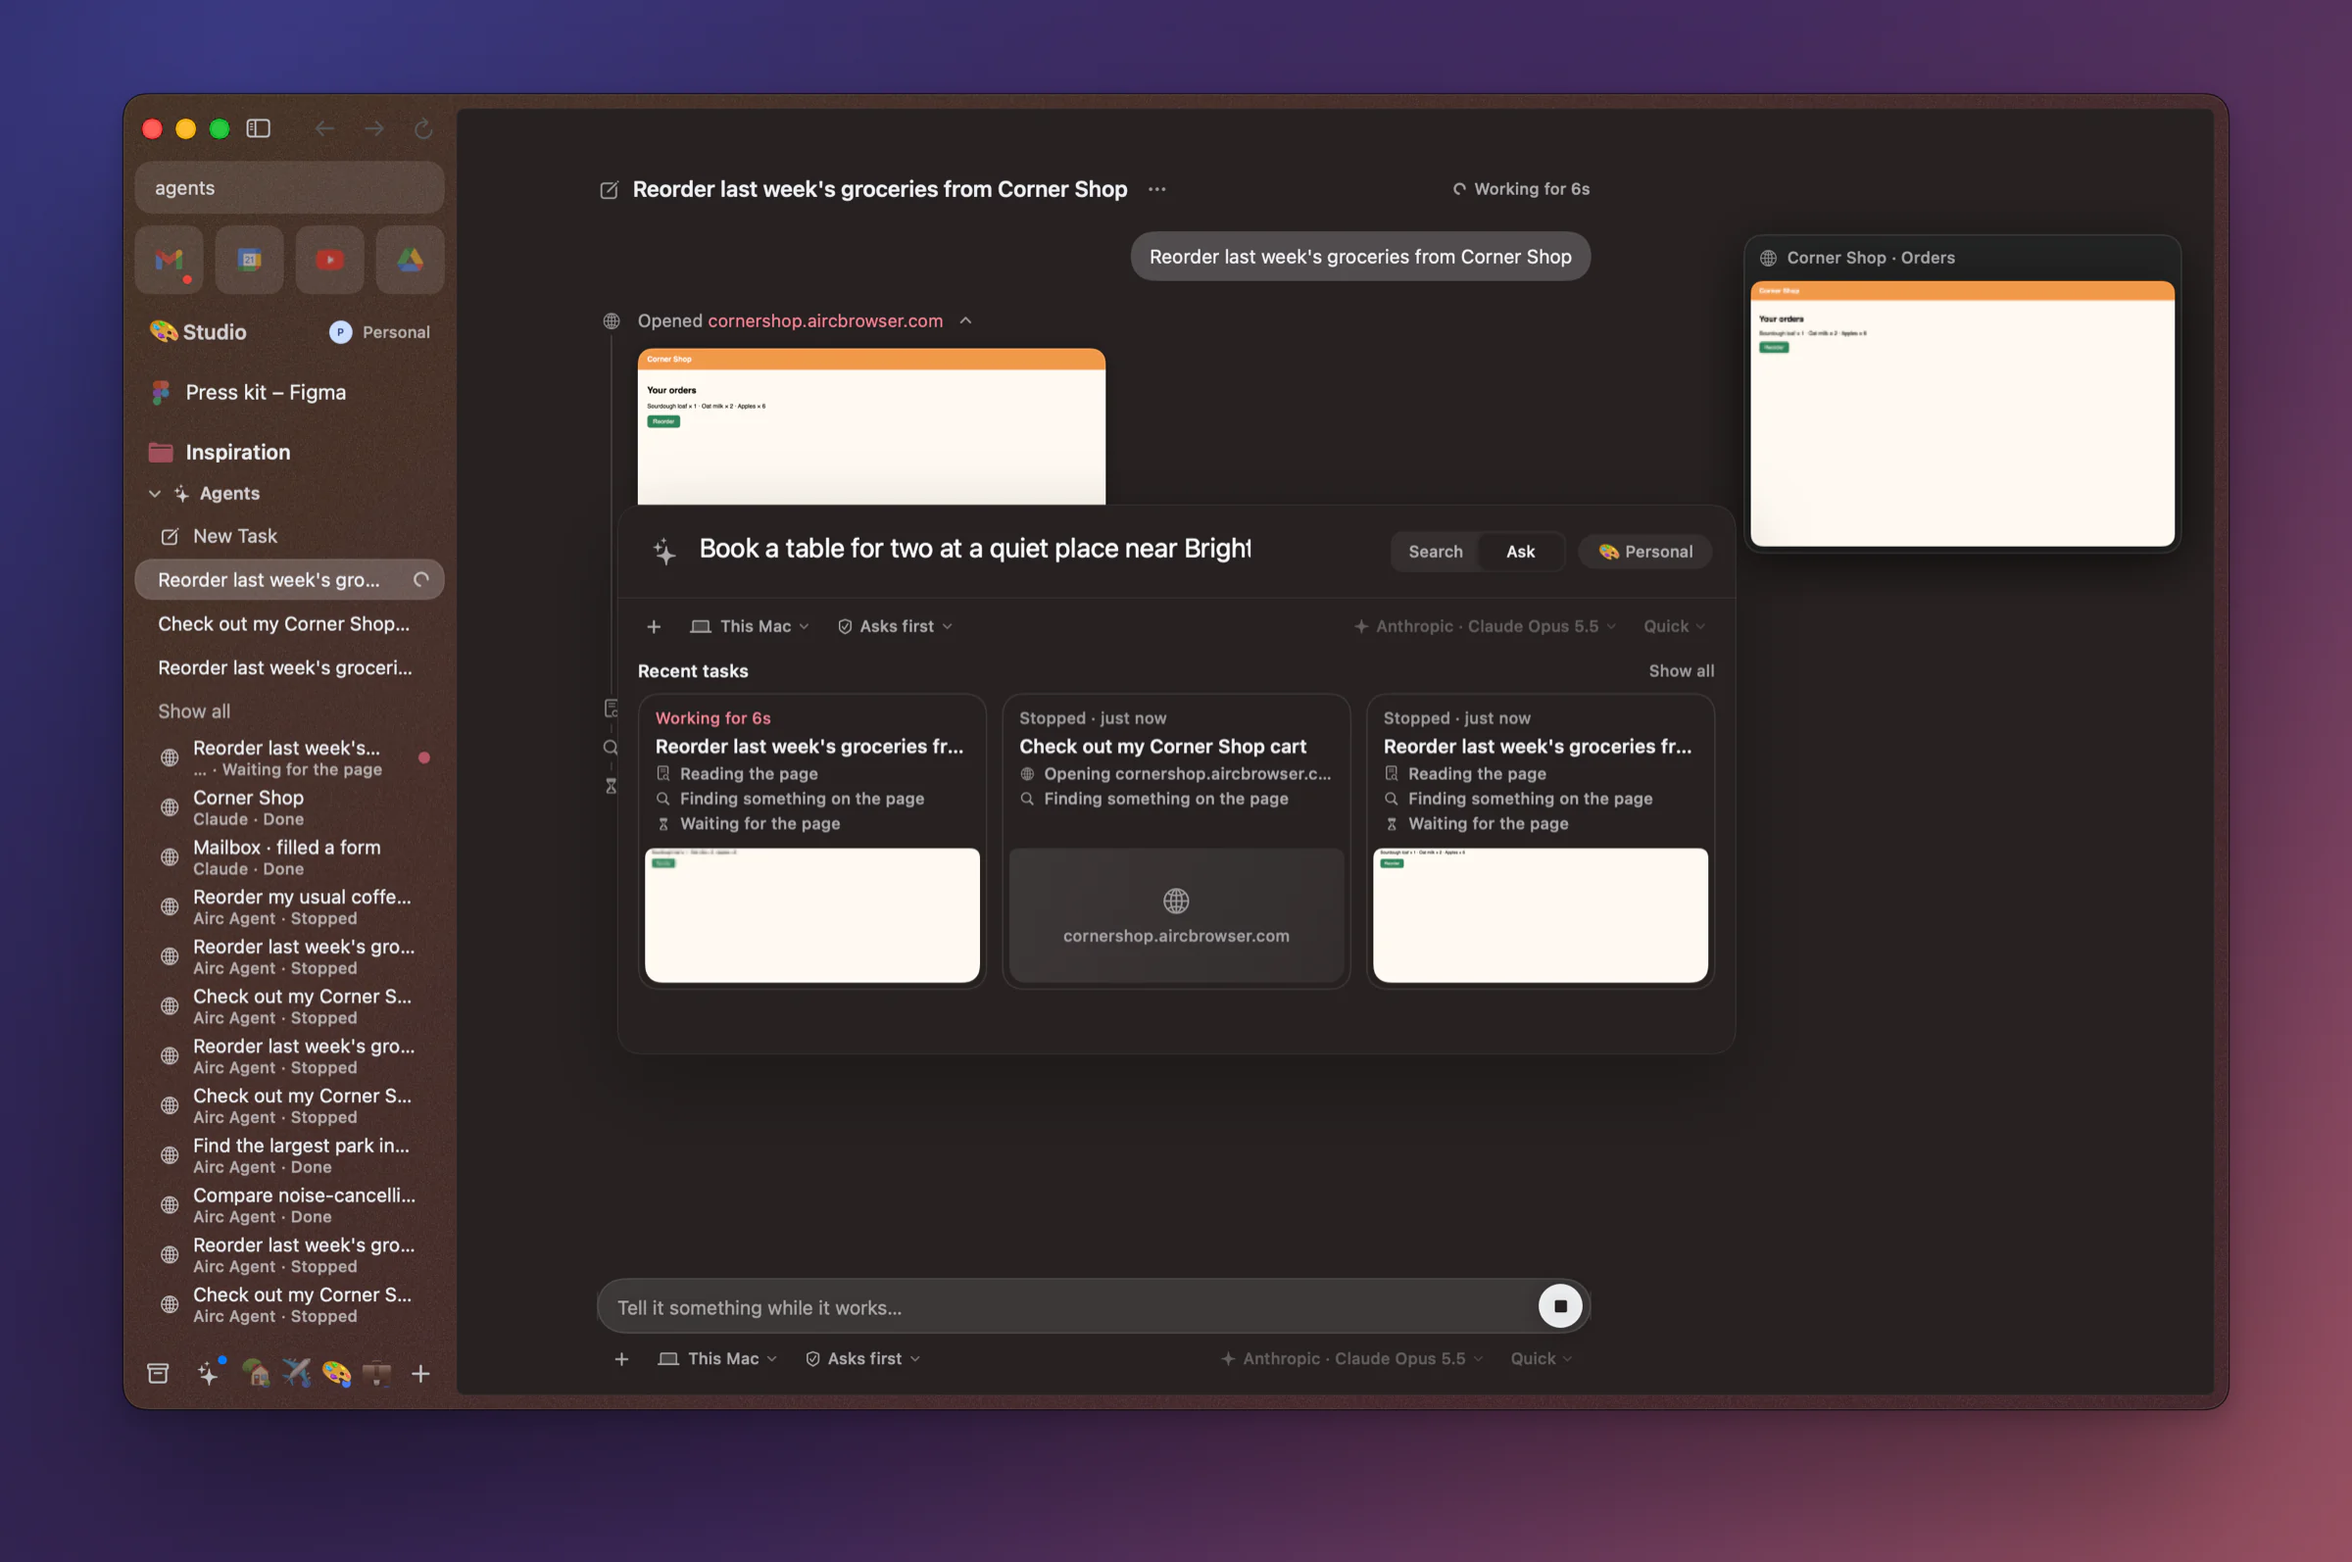
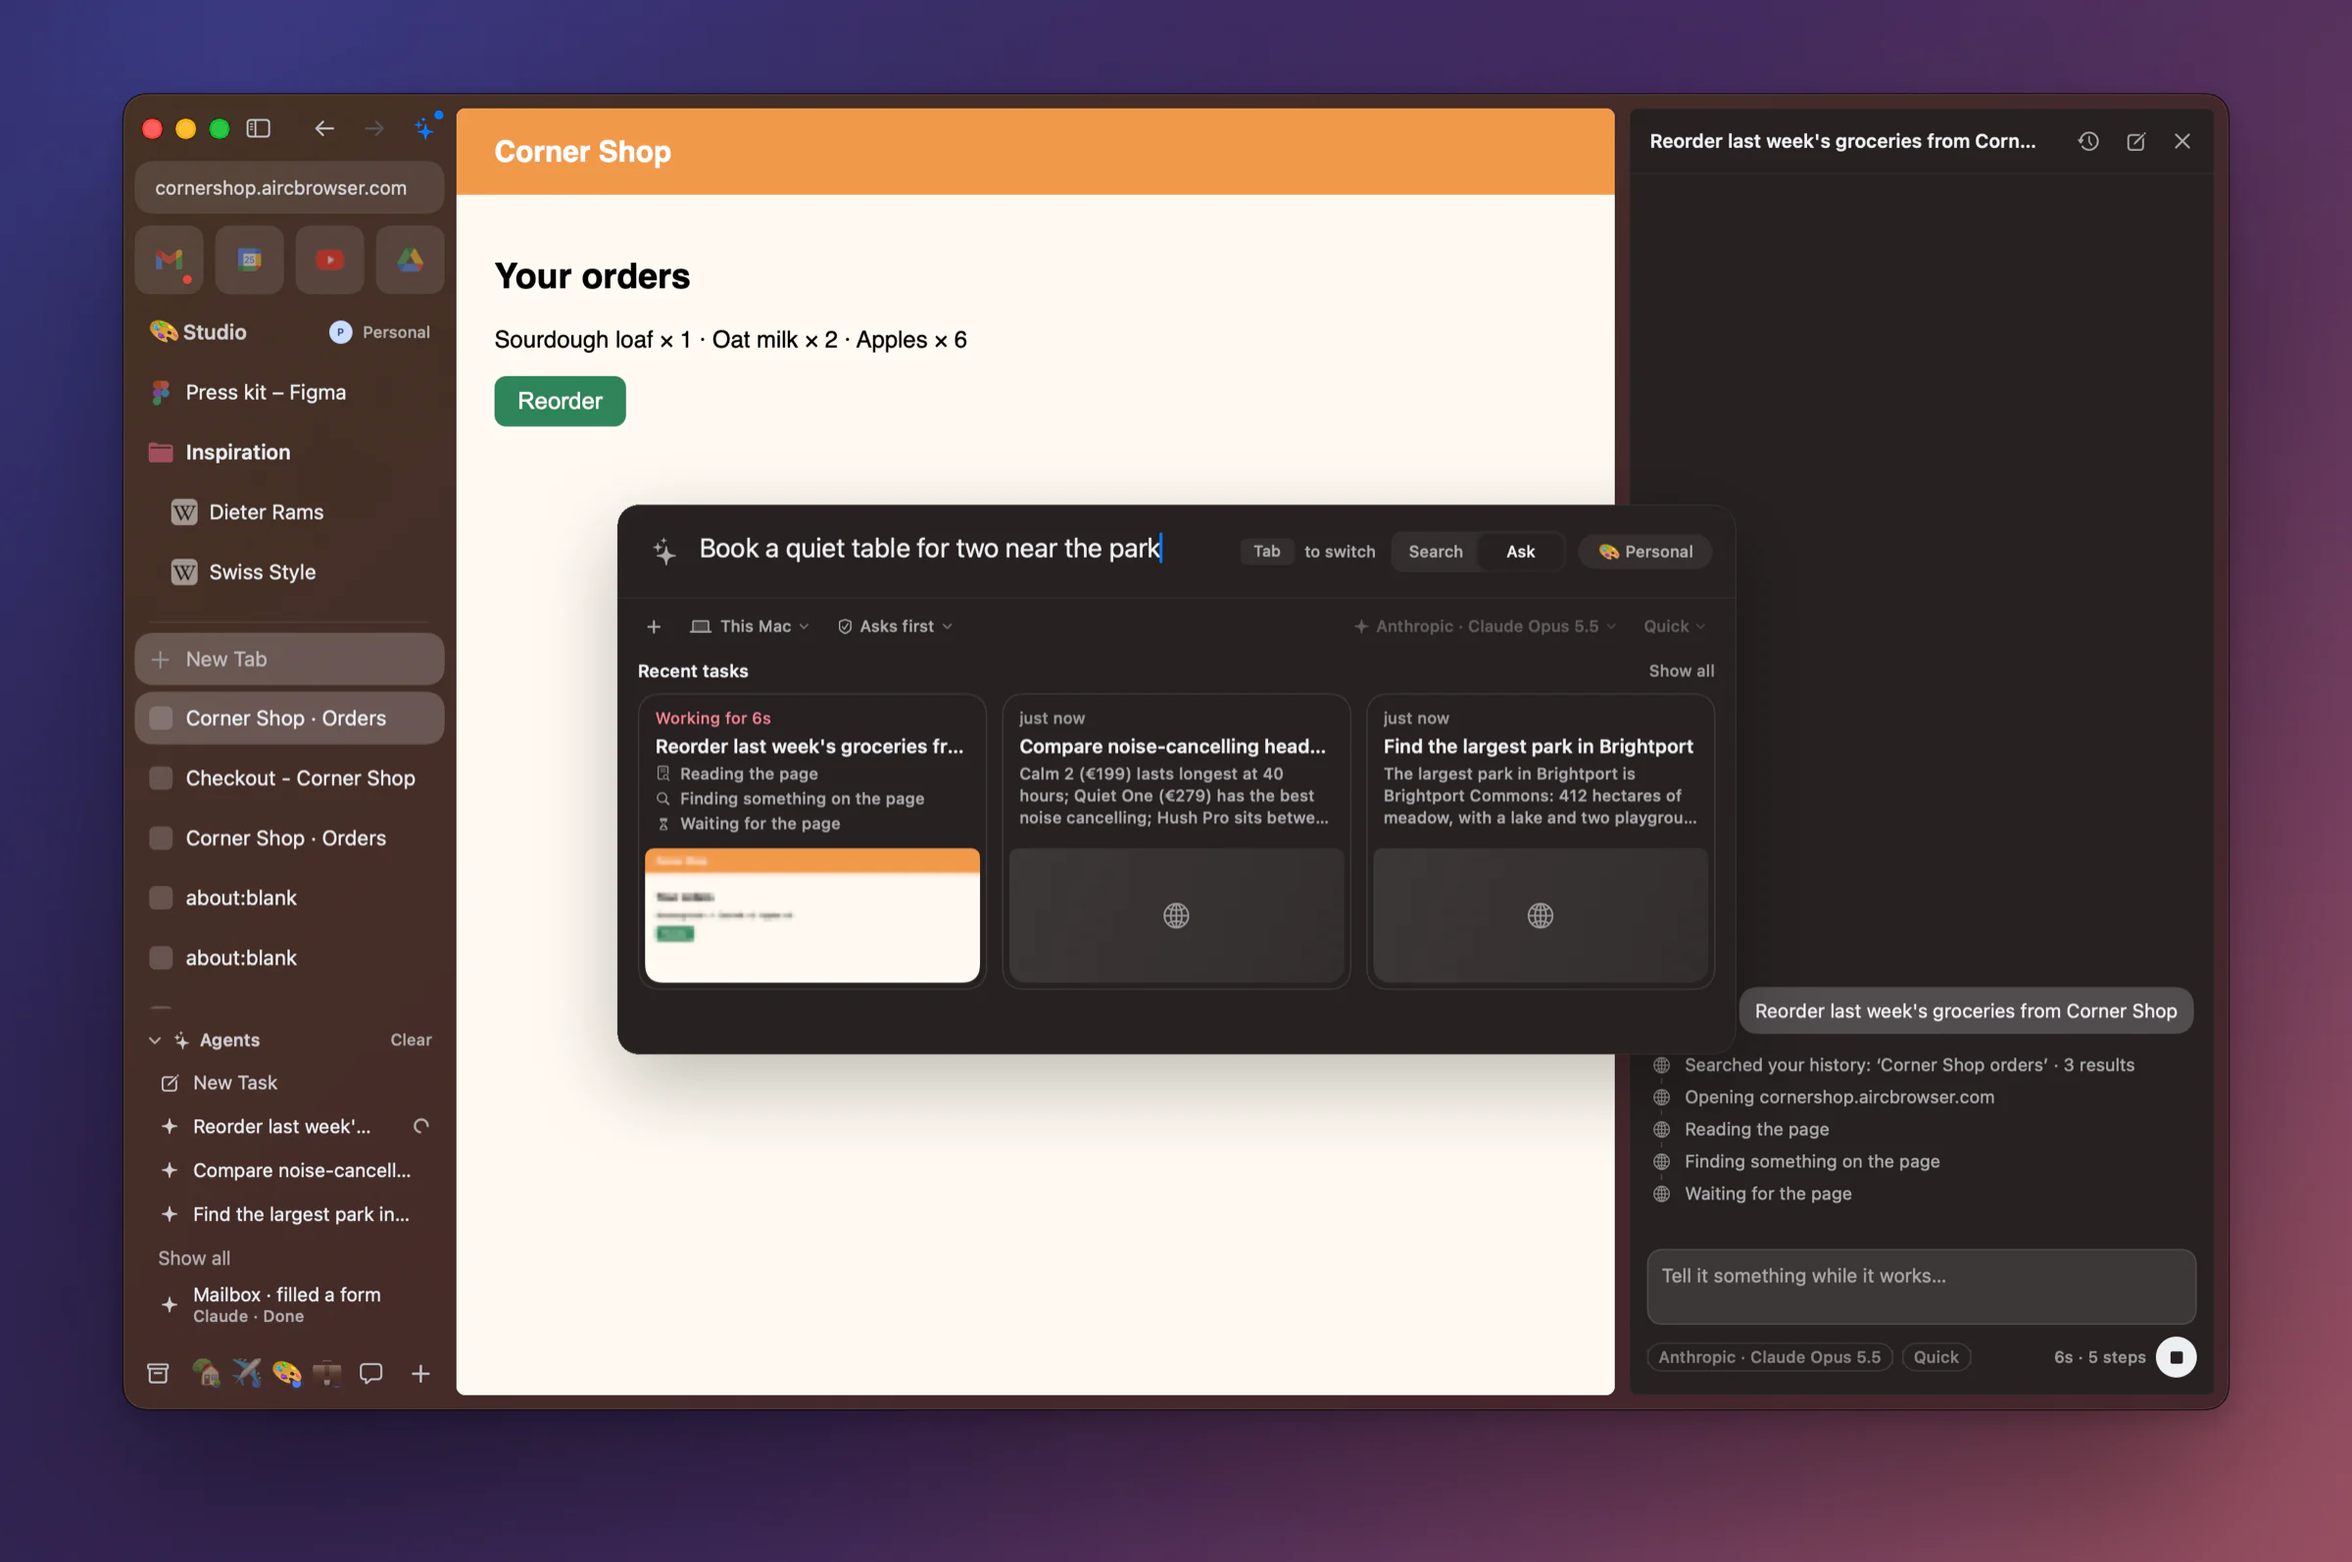
Sync with development (2026-11-25 13:20 UTC)
- Marketing: agent-tasks-ask fits the prompt beside the Tab keycap; dark pass shows the finished tasks again
- Screenshots: re-take agent-tasks-ask (light, dark) with the 0.1.60 Tab keycap and Search | Ask switch
- social: ⌘T Ask card from the 0.1.60 re-take; approved for 30 Nov

diff --git a/apps/browser/Sources/Airc/Debug/MarketingAgentTasks.swift b/apps/browser/Sources/Airc/Debug/MarketingAgentTasks.swift
@@ -92,6 +92,9 @@ extension SnapshotRunner {
         task("t2", "Compare noise-cancelling headphones under €300", [.tool("navigate", ["url": "\(site)/audio.html"]), .tool("read_page", ["mode": "text"]),
             .tool("find_element", ["text": "battery"]),
             .text("**Calm 2** (€199) lasts longest at 40 hours; **Quiet One** (€279) has the best noise cancelling; Hush Pro sits between them.")], seen: false)
+        // This pass's own tasks (the working one, the approval), deleted at the end, so the dark pass's Recent tasks show
+        // the two finished answers again rather than the light pass's stopped tasks.
+        var passTasks: [String] = []
         for dark in [false, true] {
             let sfx = dark ? "-dark" : ""
             run { [self] in
@@ -109,7 +112,10 @@ extension SnapshotRunner {
                                          .tool("navigate", ["url": "\(site)/orders.html"]), .tool("read_page", ["mode": "text"]),
                                          .tool("find_element", ["text": "Reorder"]), .toolThenHold("wait", ["duration": 25], hold: 0)])
                 CommandBarView.startAgentTask("Reorder last week's groceries from Corner Shop", attached: [], in: c)
-                waitUntil({ AgentRunCenter.shared.steps.filter { $0.kind == .action }.count >= 5 }, timeout: 25) { done() }
+                waitUntil({ AgentRunCenter.shared.steps.filter { $0.kind == .action }.count >= 5 }, timeout: 25) {
+                    if let id = AgentTaskRecorder.shared.currentID { passTasks.append(id) }
+                    done()
+                }
             }
             wait(2.2)
             mkWindowShot("agent-task-view" + sfx, dark: dark)
@@ -117,7 +123,7 @@ extension SnapshotRunner {
             step { [self] done in
                 c.openCommandBar(mode: .newTab)
                 DispatchQueue.main.asyncAfter(deadline: .now() + 0.3) { [self] in
-                    c.commandBar?.type("Book a table for two at a quiet place near Brightport Commons")
+                    c.commandBar?.type("Book a quiet table for two near the park")
                     c.commandBar?.setAskMode(true)
                     done()
                 }
@@ -132,7 +138,10 @@ extension SnapshotRunner {
                 fake.begin("t4\(sfx)", [.tool("navigate", ["url": "\(site)/checkout.html"]), .tool("find_element", ["text": "Pay"]),
                                          .tool("left_click", ["coordinate": [100, 180]]), .text("Ordered.")])
                 CommandBarView.startAgentTask("Check out my Corner Shop cart", attached: [], in: c)
-                waitUntil({ AgentRunCenter.shared.approval != nil }, timeout: 25) { done() }
+                waitUntil({ AgentRunCenter.shared.approval != nil }, timeout: 25) {
+                    if let id = AgentTaskRecorder.shared.currentID { passTasks.append(id) }
+                    done()
+                }
             }
             wait(1.2)
             mkWindowShot("agent-task-approval" + sfx, dark: dark)
@@ -140,6 +149,8 @@ extension SnapshotRunner {
                 AgentRunCenter.shared.answerApproval(allow: false)
                 AgentRunCenter.shared.newConversation()
             }
+            wait(0.4)
+            run { for id in passTasks { AgentTaskRecorder.shared.delete(id) }; passTasks = [] }
             wait(0.4)
         }
         run { [self] in

diff --git a/assets/screenshots/README.md b/assets/screenshots/README.md
@@ -143,8 +143,8 @@ profiles through Create Profile instead).
 | `agent-pane-approval-dark.webp` | Waiting for your OK, dark | The same approval in a dark Space | 2026-11-19 | test build (2ca546f4 + Stop glyph) |
 | `agent-pane-connect.webp` | Connect your AI | The agent pane's first run: Use your ChatGPT subscription (Codex), your own Claude Code, then the two API keys, each with its set-up step | 2026-11-20 | test build (agentux2: ChatGPT subscription first) |
 | `agent-pane-connect-dark.webp` | Connect your AI, dark | The same first-run card in a dark Space | 2026-11-20 | test build (agentux2: ChatGPT subscription first) |
-| `agent-tasks-ask.webp` | Ask from the Command Bar | ⌘T, then Tab: Ask mode with the chips (attach a tab, this Mac, asks first, provider, effort) and Recent tasks as cards: one working now with its live page, two finished with their answers (synthetic sites, scripted model) | 2026-11-21 | 202611210727 (171fe802) |
-| `agent-tasks-ask-dark.webp` | Ask from the Command Bar, dark | The same Ask mode and Recent tasks in a dark Space | 2026-11-21 | 202611210727 (171fe802) |
+| `agent-tasks-ask.webp` | Ask from the Command Bar | ⌘T, then Tab: Ask mode with the chips (attach a tab, this Mac, asks first, provider, effort) and Recent tasks as cards: one working now with its live page, two finished with their answers (synthetic sites, scripted model) | 2026-11-25 | 202611251400 (4b7e1f14) |
+| `agent-tasks-ask-dark.webp` | Ask from the Command Bar, dark | The same Ask mode and Recent tasks in a dark Space | 2026-11-25 | 202611251400 (4b7e1f14) |
 | `agent-task-view.webp` | A task, full width | A task in its own tab: the steps on a timeline (a search of your history with what it found, the page each step opened), the agent's page floating live beside them, and the composer with its chips and Stop; the sidebar lists each task once, the running one with a spinner | 2026-11-24 | test build (agentrows: one row per task) |
 | `agent-task-view-dark.webp` | A task, full width, dark | The same task view in a dark Space | 2026-11-24 | test build (agentrows: one row per task) |
 | `agent-task-approval.webp` | Waiting for your OK, in the task | The task view asking “Pay on cornershop…?” above the composer with Deny and Allow once, before anything is paid | 2026-11-24 | test build (agentrows: one row per task) |
